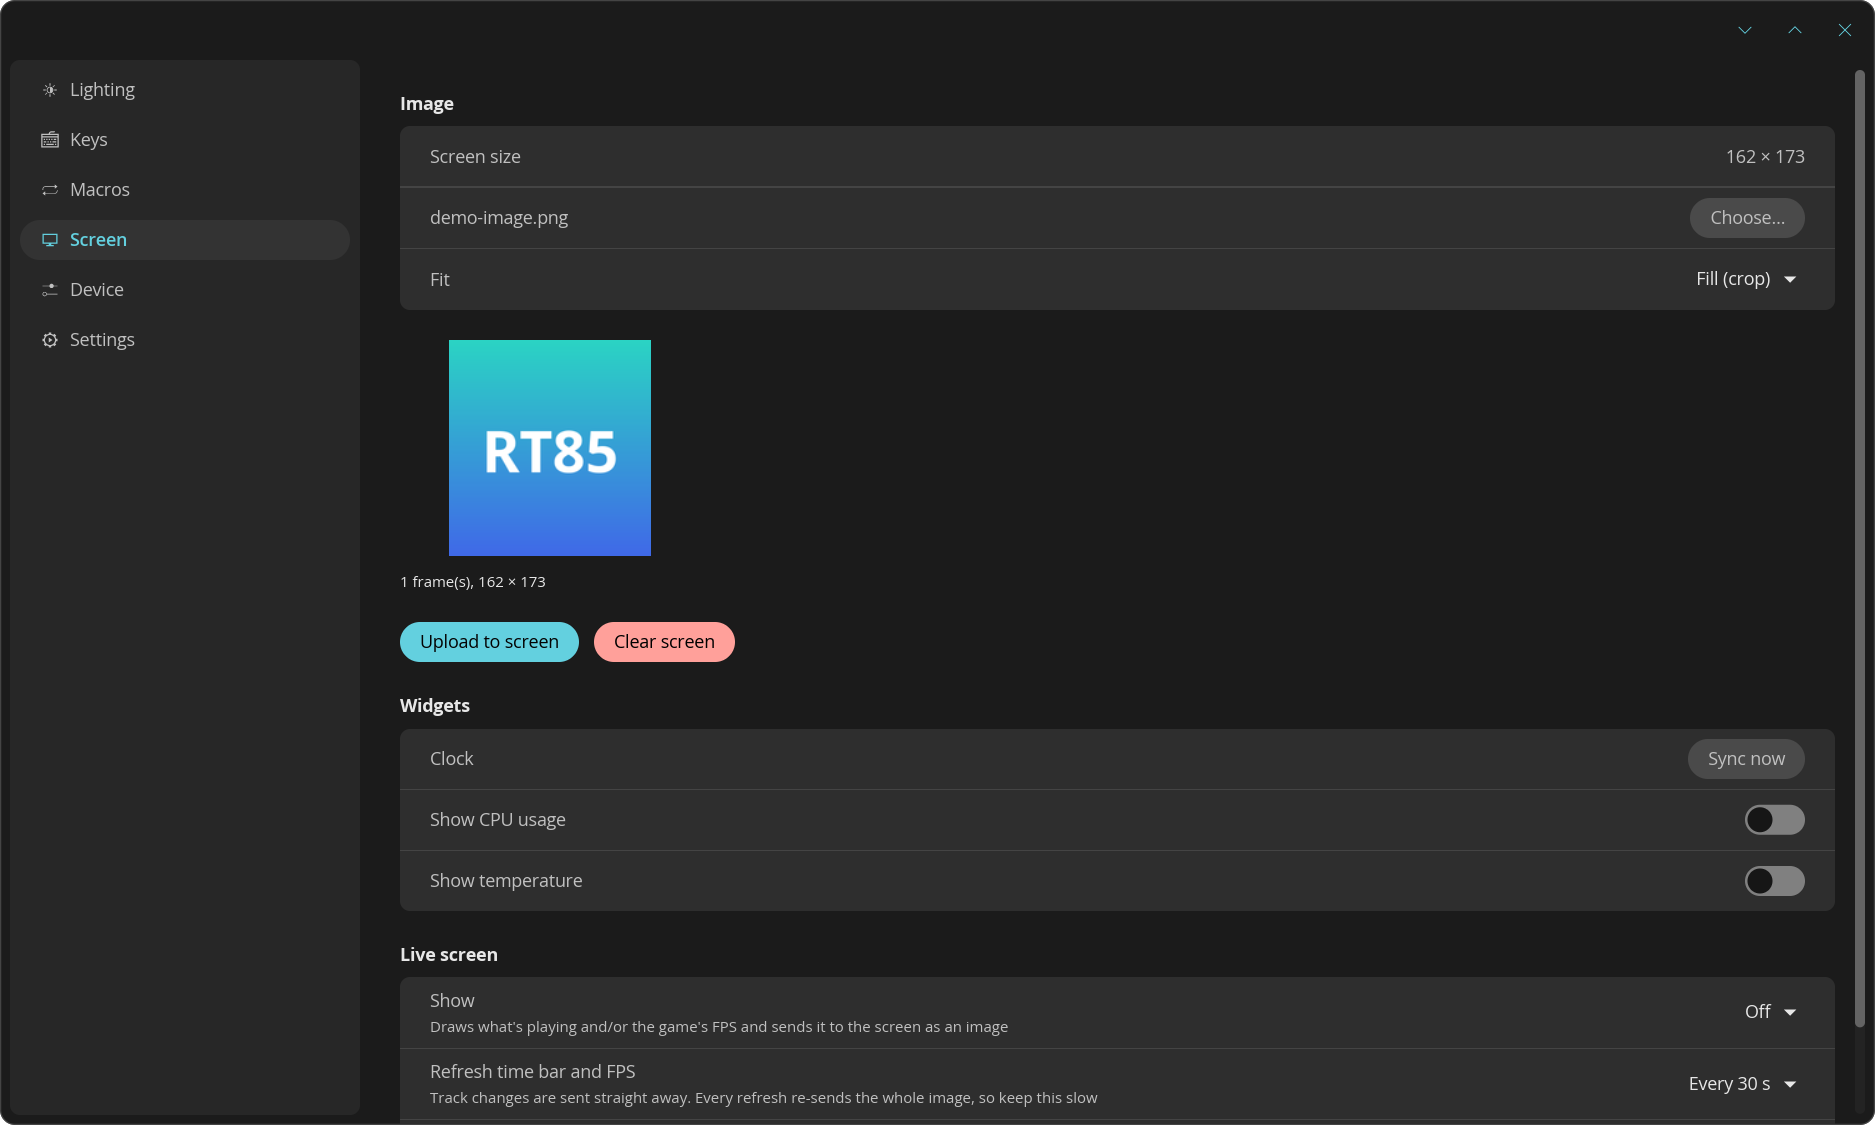
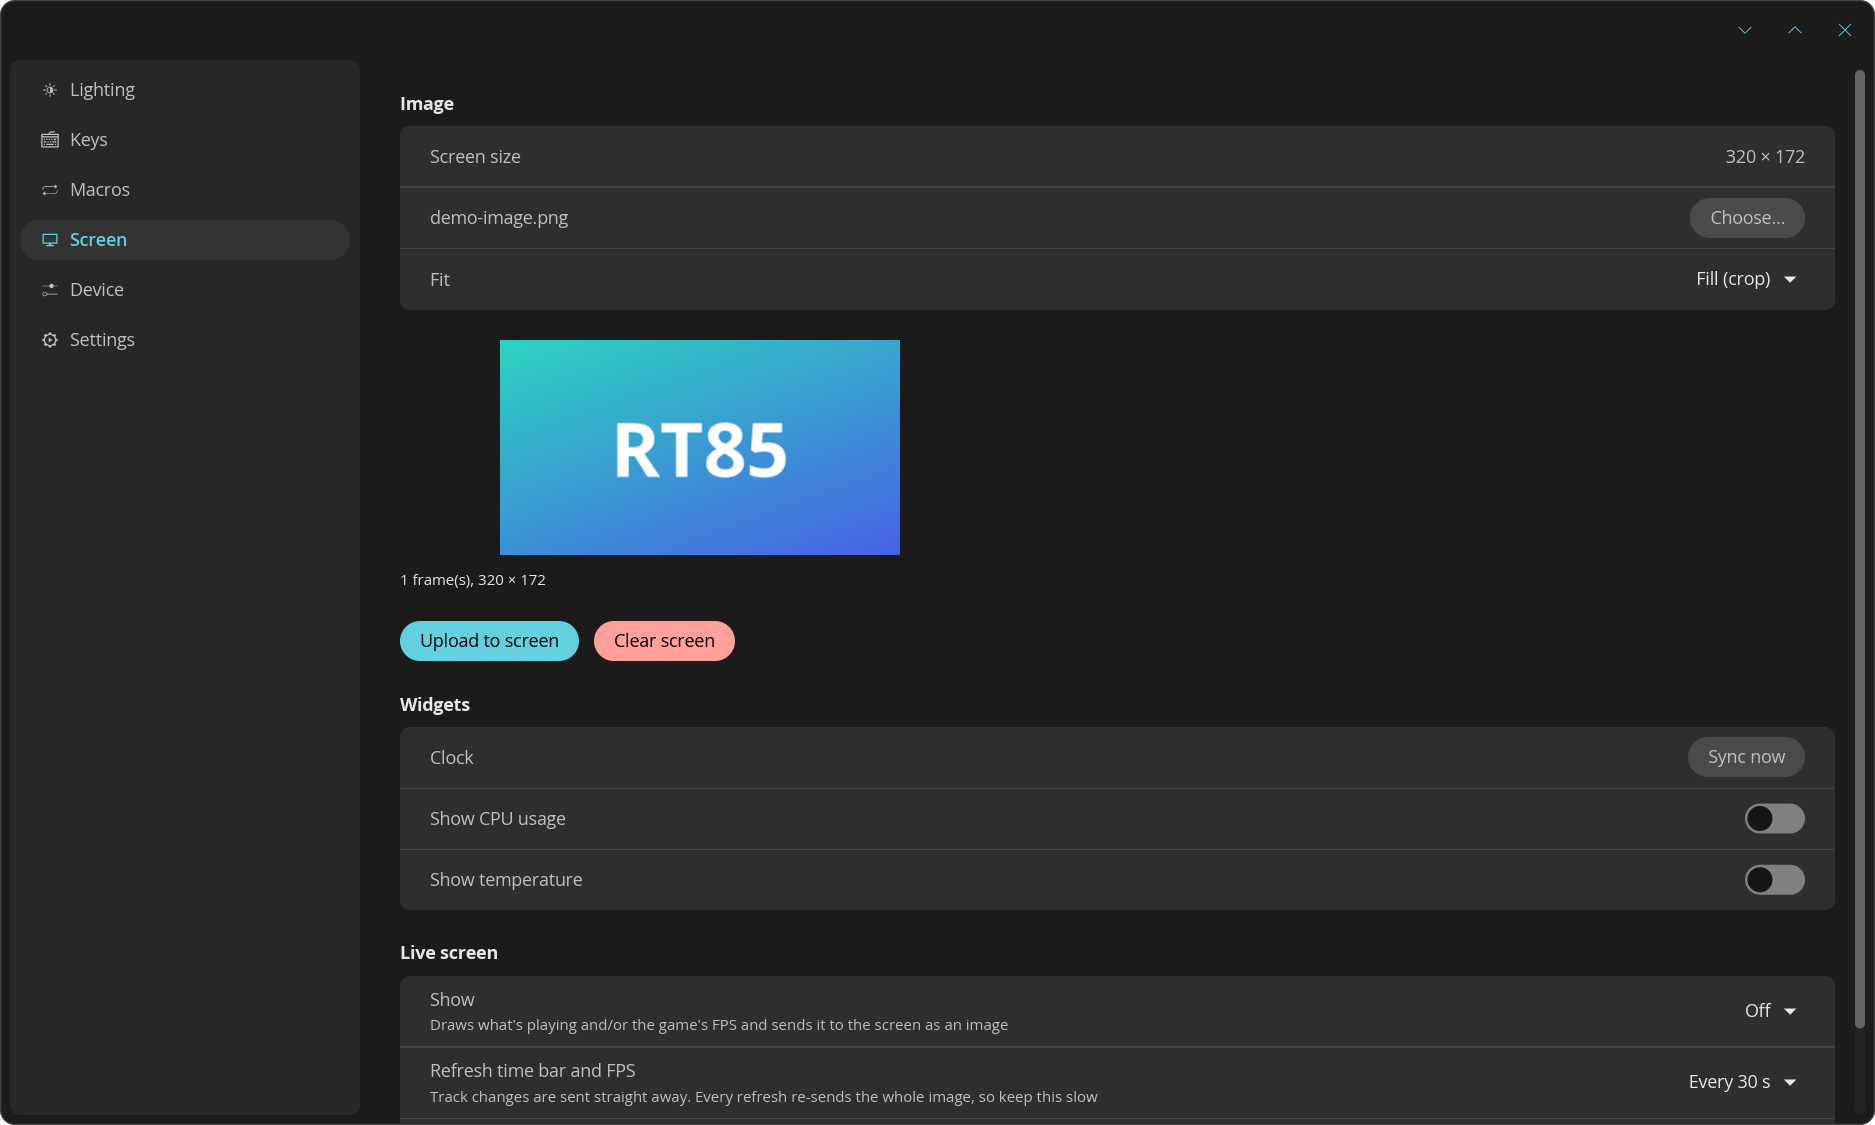
Show the RT85's wide screen in the app and screenshots
- Live screen: on wide screens the now-playing card puts the cover on the
  left and the title, artist and time bar on the right.
- Screen page: previews show the whole screen at 1.5x, with smaller
  animations in the top-left corner where the keyboard draws them.
- Demo mode pretends to be an RT85 (3151:5002, 320x172 screen).
- Retake the Screen and Device screenshots, and re-render the live-screen
  samples at 320x172 with "Lagtrain" by inabakumori as the sample track
  (cover art is an original placeholder drawing).

diff --git a/crates/rt85-gui/src/live/card.rs b/crates/rt85-gui/src/live/card.rs
@@ -39,7 +39,7 @@ pub fn render(w: u32, h: u32, media: Option<&NowPlaying>, fps: Option<&Reading>,
     let accent = Rgba([accent[0], accent[1], accent[2], 255]);
     let mut fonts = FONTS.lock().unwrap_or_else(|e| e.into_inner());
     let (fs, cache) = &mut *fonts;
-    let u = |v: f32| (v * w.min(h) as f32 / 162.0).round().max(1.0); // scale from the RT100 layout
+    let u = |v: f32| (v * w.min(h) as f32 / 162.0).round().max(1.0); // sizes are in RT100-screen pixels
     let pad = u(8.0);
 
     match (media, fps) {
@@ -53,10 +53,17 @@ pub fn render(w: u32, h: u32, media: Option<&NowPlaying>, fps: Option<&Reading>,
                 }
             }
 
-            let text_h = u(52.0);
-            let side = ((h as f32 - text_h - pad * 2.0).min(w as f32 - pad * 2.0)).max(0.0) as u32;
-            let x0 = (w - side) / 2;
-            let y0 = pad as u32;
+            // Cover art plus title/artist/time bar: stacked on squarish
+            // screens (RT100), side by side on wide ones (RT85, 320x172).
+            let wide = w as f32 > h as f32 * 1.3;
+            let (x0, y0, side) = if wide {
+                let side = (h as f32 - pad * 2.0).max(0.0) as u32;
+                (pad as u32, pad as u32, side)
+            } else {
+                let text_h = u(52.0);
+                let side = ((h as f32 - text_h - pad * 2.0).min(w as f32 - pad * 2.0)).max(0.0) as u32;
+                ((w - side) / 2, pad as u32, side)
+            };
             match &art {
                 Some(a) => {
                     let cover = a.image.resize_to_fill(side, side, imageops::FilterType::Lanczos3).to_rgba8();
@@ -80,22 +87,28 @@ pub fn render(w: u32, h: u32, media: Option<&NowPlaying>, fps: Option<&Reading>,
                 fps_badge(fs, cache, &mut img, f, x0 as f32 + u(4.0), y0 as f32 + u(4.0), u(1.0), accent);
             }
 
-            let mut y = y0 as f32 + side as f32 + u(5.0);
-            let tw = w as f32 - pad * 2.0;
-            text(fs, cache, &mut img, &m.title, pad, y, tw, u(12.0), true, WHITE, Align::Center);
-            y += u(15.0);
+            // Text block: below the cover, or to its right, vertically centred.
+            let (tx, tw, mut y, align, title_px, artist_px) = if wide {
+                let tx = (x0 + side) as f32 + pad * 1.5;
+                let block = u(16.0) + u(15.0) + u(5.0) + u(14.0);
+                (tx, w as f32 - tx - pad, (h as f32 - block) / 2.0, Align::Left, u(14.0), u(11.0))
+            } else {
+                (pad, w as f32 - pad * 2.0, y0 as f32 + side as f32 + u(5.0), Align::Center, u(12.0), u(10.0))
+            };
+            text(fs, cache, &mut img, &m.title, tx, y, tw, title_px, true, WHITE, align);
+            y += title_px + u(3.0);
             if !m.artist.is_empty() {
-                text(fs, cache, &mut img, &m.artist, pad, y, tw, u(10.0), false, DIM, Align::Center);
+                text(fs, cache, &mut img, &m.artist, tx, y, tw, artist_px, false, DIM, align);
             }
-            y += u(15.0);
+            y += artist_px + u(5.0) + if wide { u(6.0) } else { 0.0 };
             if let (Some(len), Some(pos)) = (m.length, m.position) {
                 let frac = (pos.as_secs_f32() / len.as_secs_f32()).clamp(0.0, 1.0);
                 let bar_h = u(3.0) as u32;
-                fill(&mut img, pad as i32, y as i32, tw as u32, bar_h, TRACK);
-                fill(&mut img, pad as i32, y as i32, (tw * frac) as u32, bar_h, accent);
+                fill(&mut img, tx as i32, y as i32, tw as u32, bar_h, TRACK);
+                fill(&mut img, tx as i32, y as i32, (tw * frac) as u32, bar_h, accent);
                 y += u(5.0);
-                text(fs, cache, &mut img, &clock(pos), pad, y, tw, u(9.0), false, DIM, Align::Left);
-                text(fs, cache, &mut img, &clock(len), pad, y, tw, u(9.0), false, DIM, Align::Right);
+                text(fs, cache, &mut img, &clock(pos), tx, y, tw, u(9.0), false, DIM, Align::Left);
+                text(fs, cache, &mut img, &clock(len), tx, y, tw, u(9.0), false, DIM, Align::Right);
             }
         }
         (None, Some(f)) => {
@@ -238,11 +251,11 @@ mod tests {
         let dir = PathBuf::from(std::env::var("RT85_CARD_DIR").unwrap_or_else(|_| "target/cards".into()));
         std::fs::create_dir_all(&dir).unwrap();
         let media = NowPlaying {
-            title: "Midnight Drive (Extended Mix)".into(),
-            artist: "Neon Coast".into(),
+            title: "Lagtrain".into(),
+            artist: "inabakumori".into(),
             art_url: std::env::var("RT85_CARD_ART").ok(),
-            length: Some(Duration::from_secs(213)),
-            position: Some(Duration::from_secs(83)),
+            length: Some(Duration::from_secs(254)),
+            position: Some(Duration::from_secs(97)),
             playing: true,
         };
         let paused = NowPlaying { playing: false, art_url: None, ..media.clone() };
@@ -255,7 +268,9 @@ mod tests {
             ("fps", None, Some(&fps)),
             ("idle", None, None),
         ] {
-            render(162, 173, m, f, accent).rgba.save(dir.join(format!("{name}.png"))).unwrap();
+            let rt85_protocol::royuan::screen::ScreenSpec { width, height } = rt85_protocol::royuan::screen::RT85_SCREEN;
+            render(width.into(), height.into(), m, f, accent).rgba.save(dir.join(format!("{name}.png"))).unwrap();
+            render(162, 173, m, f, accent).rgba.save(dir.join(format!("{name}-rt100.png"))).unwrap();
         }
     }
 }

diff --git a/crates/rt85-gui/src/pages/screen.rs b/crates/rt85-gui/src/pages/screen.rs
@@ -339,7 +339,7 @@ impl Page {
         }
         if let Some(p) = &self.prepared {
             if let Some(h) = &p.preview {
-                preview_col = preview_col.push(widget::image(h.clone()).width(Length::Fixed(240.0)));
+                preview_col = preview_col.push(widget::image(h.clone()).width(Length::Fixed(preview_width(self.spec))));
             }
             preview_col = preview_col.push(widget::text::caption(p.summary.clone()));
         }
@@ -430,10 +430,15 @@ impl Page {
         if let Some(h) = &l.preview {
             col = col
                 .push(widget::text::caption(fl!("live-preview")))
-                .push(widget::image(h.clone()).width(Length::Fixed(240.0)));
+                .push(widget::image(h.clone()).width(Length::Fixed(preview_width(self.spec))));
         }
         col.into()
     }
+}
+
+/// Previews are drawn at 1.5x the screen's pixel size (480 px wide for the RT85).
+fn preview_width(spec: Option<ScreenSpec>) -> f32 {
+    spec.map_or(240.0, |s| s.width as f32 * 1.5).min(480.0)
 }
 
 fn prepare(path: &std::path::Path, spec: ScreenSpec, fit: Fit) -> Result<Prepared, String> {
@@ -444,10 +449,18 @@ fn prepare(path: &std::path::Path, spec: ScreenSpec, fit: Fit) -> Result<Prepare
         return Ok(Prepared { payload: Payload::Qgif(Arc::new(q)), preview: None, summary });
     }
     let anim = media::load(path, spec, fit).map_err(|e| e.to_string())?;
-    // Preview: the first frame, decoded again at the target size.
+    // Preview: the first frame, decoded again at the target size and placed
+    // on the whole screen. Animations smaller than the screen show up in its
+    // top-left corner.
     let img = image::open(path).map_err(|e| e.to_string())?;
     let rgba = media::fit(&img, anim.width.into(), anim.height.into(), fit);
-    let preview = Some(widget::image::Handle::from_rgba(rgba.width(), rgba.height(), rgba.into_raw()));
-    let summary = format!("{} frame(s), {} × {}", anim.frames.len(), anim.width, anim.height);
+    let mut screen = image::RgbaImage::from_pixel(spec.width.into(), spec.height.into(), image::Rgba([0, 0, 0, 255]));
+    image::imageops::overlay(&mut screen, &rgba, 0, 0);
+    let preview = Some(widget::image::Handle::from_rgba(screen.width(), screen.height(), screen.into_raw()));
+    let summary = if (anim.width, anim.height) == (spec.width, spec.height) {
+        format!("{} frame(s), {} × {}", anim.frames.len(), anim.width, anim.height)
+    } else {
+        format!("{} frame(s), {} × {} in the top-left of the screen", anim.frames.len(), anim.width, anim.height)
+    };
     Ok(Prepared { payload: Payload::Rgb565(Arc::new(anim)), preview, summary })
 }

diff --git a/crates/rt85-gui/src/demo.rs b/crates/rt85-gui/src/demo.rs
@@ -1,4 +1,4 @@
-//! Demo mode (`RT85_DEMO=1`): pretends an RT100-family keyboard is connected
+//! Demo mode (`RT85_DEMO=1`): pretends an RT85 is connected
 //! so the UI can be explored and screenshotted without hardware. Nothing is
 //! sent anywhere.
 //!
@@ -42,14 +42,14 @@ pub fn image_path() -> Option<std::path::PathBuf> {
 
 pub fn device() -> DeviceSummary {
     DeviceSummary {
-        name: "Epomaker keyboard (demo)".into(),
+        name: "Epomaker RT85 (demo)".into(),
         vid: ROYUAN_VID,
-        pid: 0x4010,
+        pid: 0x5002,
         platform: Platform::Royuan,
         link: Link::Wired,
-        model: Some("Demo"),
+        model: Some("RT85"),
         manufacturer: "Demo mode, nothing is sent".into(),
-        interfaces: vec!["#1 /dev/hidraw-demo [ff00:0001]".into()],
+        interfaces: vec!["#2 /dev/hidraw-demo [ffff:0002]".into()],
         hid_paths: Vec::new(),
         caps: Capabilities::for_device(Platform::Royuan, rt85_protocol::layout::Board::Rt85),
     }

diff --git a/README.md b/README.md
@@ -12,9 +12,9 @@
 
 > [!WARNING]
 > **Experimental.** The keyboard protocol is ported from reverse-engineered work on
-> sibling boards (RT100 and RT82, see [`docs/protocol.md`](docs/protocol.md)), and it
-> hasn't been tested on an RT85 yet. If you own one, please open an issue with the
-> output of `rt85 list --all`.
+> sibling boards (RT100 and RT82) and on the RT85's 320×172 screen (see
+> [`docs/protocol.md`](docs/protocol.md)). It hasn't been tested by this project on an
+> RT85 yet. If you own one, please open an issue with the output of `rt85 list --all`.
 
 ## Screenshots
 
@@ -28,9 +28,9 @@
 | **Settings** | **Device** |
 | ![Settings page: keyboard layout, colour scheme and frosted glass](docs/screenshots/settings.png) | ![Device page: connected keyboard, platform and capabilities](docs/screenshots/device.png) |
 
-**Live screen:** what the keyboard's screen shows for now playing, now playing + FPS, and game FPS.
+**Live screen:** what the RT85's 320×172 screen shows for now playing, now playing + FPS, and game FPS.
 
-![Three rendered screen images: a now-playing card with cover art, title, artist and time bar; the same with an FPS badge; and a large FPS counter](docs/screenshots/live-screen.png)
+![Three rendered 320×172 screen images: a now-playing card for Lagtrain by inabakumori with cover art on the left and title, artist and time bar on the right; the same with an FPS badge; and a large FPS counter](docs/screenshots/live-screen.png)
 
 ## Features
 
